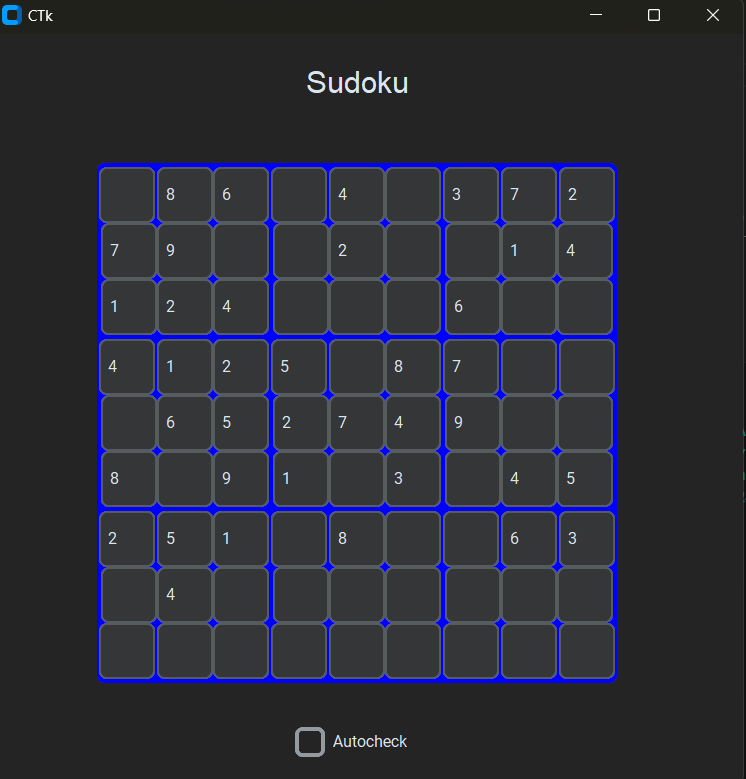
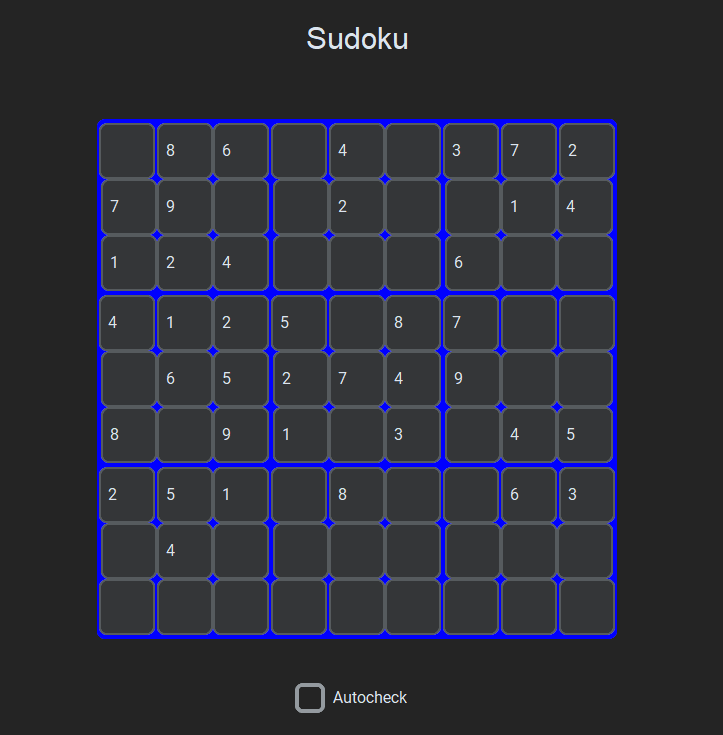
uniform background, project img fixes

diff --git a/src/components/Projects/ProjectStyles.jsx b/src/components/Projects/ProjectStyles.jsx
@@ -24,15 +24,13 @@ text-align: center;
 //   border-width:1px;
 color:#F8F8FF	;
 
-// color:black;
+color:black;
+
 
 // border: 1px solid #E0E0E0 ;
 
 
-background:	#222222	;   light black//
-
-// background:#F5F5F5;
-background: #e4e4e4;
+// background:	#222222	;   light black//
 
 border-radius: 4%;
 
@@ -51,7 +49,6 @@ font-family: 'Cascadia Code', monospace;
 
 `
 
-
 export const Title = styled.h3`
 // margin: auto;
 font-size:150%;
@@ -59,10 +56,15 @@ color: rgb(131, 195, 255);
 `
 
 export const ProjectImg = styled.img`
-width: 90%;
-border-radius:2%;
-
-`
+  max-width: 90%;         // scales horizontally
+  max-height: 275px;      // caps tall images
+  height: auto;           // preserves aspect ratio
+  width: auto;            // allows natural width scaling
+  border-radius: 2%;
+  display: block;
+  margin: 0 auto;
+  object-fit: contain;    // makes sure image fits without cropping
+`;
 
 export const ProjectDescription = styled.div`
 margin-top:2rem;

diff --git a/src/globalStyles.jsx b/src/globalStyles.jsx
@@ -3,7 +3,7 @@ import styled from 'styled-components';
 export const SectionContainer = styled.div`
   padding-left: 15%;
   padding-right: 15%;
-  background:#121212;
+  background:rgb(18, 18, 18);
 
 
 
@@ -11,13 +11,10 @@ export const SectionContainer = styled.div`
 
   color:white;
 
-  // background: #e4e4e4;
-
-  // background:#F5F5F5;
-
 `;
 
 
 export const Subheading = styled.h2`
-
+text-align:center;
+font-size:2.5rem;
 `

diff --git a/src/components/Hero/HeroStyles.jsx b/src/components/Hero/HeroStyles.jsx
@@ -1,14 +1,12 @@
 import styled from 'styled-components';
 
 export const HeroContainer = styled.div`
-// height: 80vh;
-  background-color: #111;
   display: flex;
   flex-direction: column;
   justify-content: center;
   align-items: center;
-  padding-top: 20vh;
-  padding-bottom: 50vh;
+  padding-top: 15vh;
+  padding-bottom: 60vh;
   gap: 5vh;
   // padding: 0 20px;
 `
